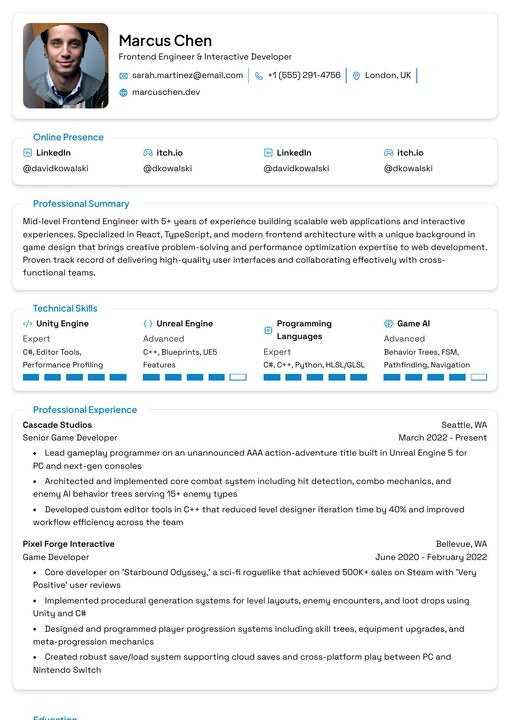
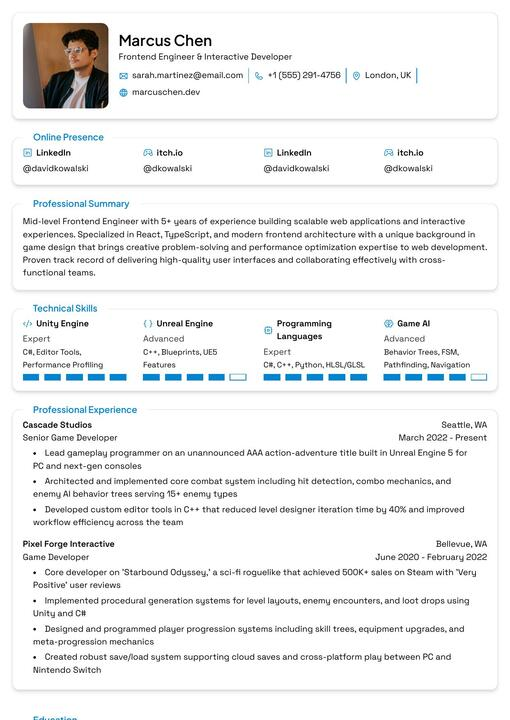
Revert "fix: update template preview JPG images with new professional person photos and updated names"
This reverts commit 01b1b8f69e9f6f71cb53a3d3803b4703fe7cbf51.

Changed region(s): [[0.0294, 0.0306, 0.2059, 0.1528]]

diff --git a/packages/schema/src/resume/sample.ts b/packages/schema/src/resume/sample.ts
@@ -14,9 +14,9 @@ export const sampleResumeData: ResumeData = {
 		shadowWidth: 0,
 	},
 	basics: {
-		name: "Dhanush B M",
-		headline: "Full Stack Engineer | React & Node.js Specialist",
-		email: "karthikdhanush686@gmail.com",
+		name: "David Kowalski",
+		headline: "Game Developer | Unity & Unreal Engine Specialist",
+		email: "david.kowalski@email.com",
 		phone: "+1 (555) 291-4756",
 		location: "Seattle, WA",
 		website: {
